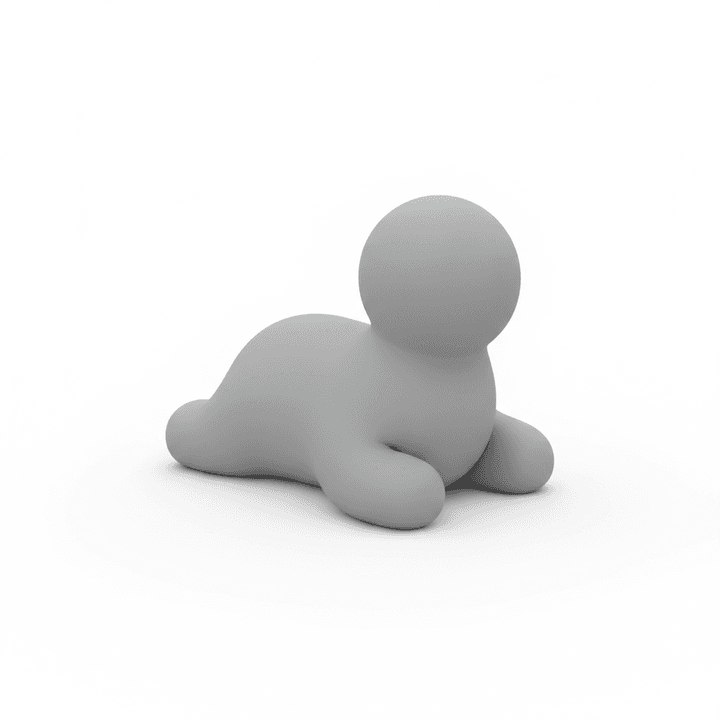
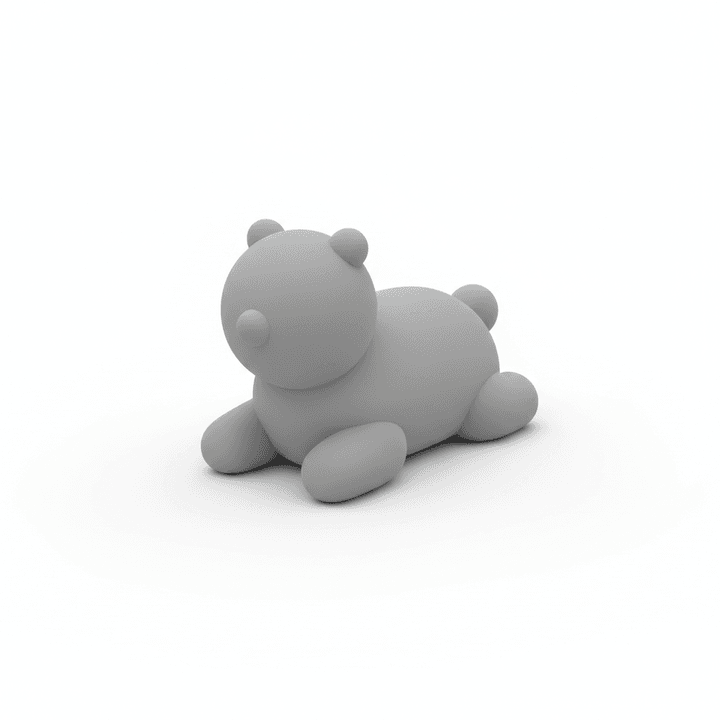
Fix cropped 4-view previews (contain), leave out props that are not worn in the generation prompts, split the flow into clear Step 1 (4-view image, 2 free per day) and Step 2 (3D model, 1 credit, first one free per account), and use four-legged animal shapes for the composition presets

Changed region(s): [[0.2139, 0.275, 0.7944, 0.7639]]

diff --git a/src/components/order/PreviewPanel.tsx b/src/components/order/PreviewPanel.tsx
@@ -752,7 +752,7 @@ export function PreviewPanel({
           {modelState.phase === "idle" && (
             <>
               <Box className="h-10 w-10 text-slate-300" strokeWidth={1.5} />
-              <p className="text-xs text-slate-400">3D形状プレビュー</p>
+              <p className="text-xs text-slate-400">ここに結果が表示されます</p>
             </>
           )}
           {(modelState.phase === "starting" || modelState.phase === "polling") && (
@@ -774,7 +774,7 @@ export function PreviewPanel({
                   key={view}
                   src={`data:${modelState.views[view].mimeType};base64,${modelState.views[view].data}`}
                   alt={VIEW_LABELS[view]}
-                  className="h-full w-full object-cover"
+                  className="h-full w-full bg-white object-contain"
                 />
               ))}
             </div>
@@ -874,8 +874,8 @@ export function PreviewPanel({
             className="w-full rounded-lg bg-slate-800 py-2.5 text-sm font-semibold text-white transition-colors hover:bg-slate-700 disabled:cursor-not-allowed disabled:opacity-50"
           >
             {modelState.phase === "success" || modelState.phase === "error"
-              ? "写真からもう一度、形状を作り直す（無料）"
-              : "写真から3D形状を作る（無料）"}
+              ? "ステップ1をやり直す：4方向のイメージを作り直す"
+              : "ステップ1：写真から4方向のイメージを作る（1日2回まで無料）"}
           </button>
         ) : (
           <button
@@ -883,7 +883,7 @@ export function PreviewPanel({
             onClick={() => signInWithGoogle()}
             className="w-full rounded-lg bg-slate-800 py-2.5 text-sm font-semibold text-white transition-colors hover:bg-slate-700"
           >
-            ログインして3D形状を作る
+            ログインして、ステップ1（4方向のイメージ作り）を始める
           </button>
         ))}
 
@@ -900,7 +900,7 @@ export function PreviewPanel({
                   <img
                     src={`data:${modelState.views[view].mimeType};base64,${modelState.views[view].data}`}
                     alt={VIEW_LABELS[view]}
-                    className="h-full w-full object-cover"
+                    className="h-full w-full bg-white object-contain"
                   />
                 </div>
                 <p className="text-center text-[10px] text-slate-500">
@@ -946,7 +946,7 @@ export function PreviewPanel({
               disabled={modelState.confirming}
               className="flex-1 rounded-lg border border-slate-300 bg-white py-2 text-xs font-medium text-slate-700 transition-colors hover:bg-slate-50 disabled:cursor-not-allowed disabled:opacity-50"
             >
-              作り直す（無料）
+              イメージを作り直す
             </button>
             <button
               type="button"
@@ -959,7 +959,7 @@ export function PreviewPanel({
               }
               className="flex-1 rounded-lg bg-slate-800 py-2 text-xs font-semibold text-white transition-colors hover:bg-slate-700 disabled:cursor-not-allowed disabled:opacity-50"
             >
-              {modelState.confirming ? "作成中..." : "この形状でOK・3Dモデルを作成（1クレジット）"}
+              {modelState.confirming ? "作成中..." : "ステップ2：この形でOK → 3Dモデルを作る（1クレジット）"}
             </button>
           </div>
         </div>
@@ -1056,7 +1056,7 @@ export function PreviewPanel({
       )}
       {mode === "ai" && user && modelState.phase === "reviewingViews" && !hasCredits && (
         <p className="text-center text-xs text-amber-600">
-          クレジットが不足しています。3Dモデルの作成には購入が必要です（形状の確認・作り直しは無料です）。
+          クレジットが足りません。3Dモデルを作るには、クレジットの購入が必要です（1回100円。アカウントごとに、最初の1回は無料です）。4方向のイメージ作りは、1日2回まで無料です。
         </p>
       )}
 

diff --git a/src/components/order/DuoBuilder.tsx b/src/components/order/DuoBuilder.tsx
@@ -373,7 +373,7 @@ export function DuoBuilder({ colorQuantities, onGenerated }: DuoBuilderProps) {
           2匹を1つのキーホルダーにします。<b>1匹ずつ別の写真</b>をアップしてください（2匹が一緒に写った写真だと、混ざってしまうことがあります）。
         </p>
         <p className="mt-1">
-          形の確認と作り直しは、1日2回まで無料です。確認してOKを押すと、3Dモデルの作成に1クレジット（2匹分でも1回分）を使います。
+          ステップ1：4方向のイメージ作り（1日2回まで無料）。ステップ2：イメージを確認してOKを押すと、3Dモデル作りに1クレジット（2匹分でも1回分）を使います。クレジットは1回100円で、アカウントごとに最初の1回は無料です。
         </p>
         <p className="mt-1">3匹以上をご希望の方は、メール（natsuki.ko006@gmail.com）でご相談ください。</p>
       </div>
@@ -449,7 +449,7 @@ export function DuoBuilder({ colorQuantities, onGenerated }: DuoBuilderProps) {
         {modelState.phase === "idle" && (
           <p className="text-xs text-slate-400">
             {ready
-              ? "「形状を生成する」を押してください（30秒〜1分ほどかかります）"
+              ? "「ステップ1」のボタンを押してください（30秒〜1分ほどかかります）"
               : `あとは${[
                   photosA.length === 0 && "1匹目の写真",
                   !subjectA.trim() && "1匹目のお名前",
@@ -478,7 +478,7 @@ export function DuoBuilder({ colorQuantities, onGenerated }: DuoBuilderProps) {
                 key={view}
                 src={`data:${modelState.views[view].mimeType};base64,${modelState.views[view].data}`}
                 alt={VIEW_LABELS[view]}
-                className="h-full w-full object-cover"
+                className="h-full w-full bg-white object-contain"
               />
             ))}
           </div>
@@ -522,8 +522,8 @@ export function DuoBuilder({ colorQuantities, onGenerated }: DuoBuilderProps) {
             className="w-full rounded-lg border border-slate-300 bg-white py-2.5 text-sm font-medium text-slate-700 transition-colors hover:bg-slate-50 disabled:cursor-not-allowed disabled:opacity-50"
           >
             {modelState.phase === "success" || modelState.phase === "error"
-              ? "もう一度形状を作り直す"
-              : "形状を生成する"}
+              ? "ステップ1をやり直す：4方向のイメージを作り直す"
+              : "ステップ1：4方向のイメージを作る（1日2回まで無料）"}
           </button>
         ) : (
           <button
@@ -588,12 +588,12 @@ export function DuoBuilder({ colorQuantities, onGenerated }: DuoBuilderProps) {
               }
               className="flex-1 rounded-lg bg-slate-800 py-2 text-xs font-semibold text-white transition-colors hover:bg-slate-700 disabled:cursor-not-allowed disabled:opacity-50"
             >
-              {modelState.confirming ? "作成中..." : "この形状でOK・3Dモデルを作成（1クレジット）"}
+              {modelState.confirming ? "作成中..." : "ステップ2：この形でOK → 3Dモデルを作る（1クレジット）"}
             </button>
           </div>
           {user && !hasCredits && (
             <p className="mt-2 text-center text-xs text-amber-600">
-              クレジットが不足しています。3Dモデルの作成には購入が必要です。
+              クレジットが足りません。3Dモデルを作るには、クレジットの購入が必要です（1回100円。アカウントごとに、最初の1回は無料です）。
             </p>
           )}
         </div>

diff --git a/src/lib/gemini.ts b/src/lib/gemini.ts
@@ -191,6 +191,15 @@ async function generateImage(
   throw new Error(`Gemini did not return an image (${lastReason})`);
 }
 
+// Only what the subject is actually wearing may appear. Props around the subject in the customer's
+// photo (baskets, blankets, mats, furniture, toys, bowls, leashes, people, other animals) would end up
+// fused into the 3D print, so they are explicitly left out.
+const OMIT_SURROUNDINGS_PHRASE =
+  " Draw ONLY the subject itself and anything it is actually wearing (collar, clothing, hat, ribbon, " +
+  "harness). Leave out everything that merely surrounds it in the reference photos: baskets, blankets, " +
+  "mats, cushions, furniture, toys, food, bowls, leashes held by a person, plants, background scenery, " +
+  "and any people or other animals that are not one of the requested subjects. Plain empty white " +
+  "background only.";
 // Shared style anchor for both figureGridPrompt and figureGridPromptDuo -- pins the output to a
 // recognizable, well-represented aesthetic category (gashapon/mascot figurines) instead of just
 // saying "figurine", which on its own wasn't stopping the model from drifting toward a
@@ -293,7 +302,9 @@ function figureGridPrompt(
     `printed at only a few centimeters tall, so keep the sculpted form itself sturdy: ${printSafetyPhrase} ` +
     "Soft even studio lighting with no harsh shadows or reflections. " +
     `${proportionsPhrase}, full body visible and centered within each quadrant, no text ` +
-    "or watermark anywhere (no letters, numbers, captions or labels in any language). Use the attached reference photos to match the subject's shape, " +
+    "or watermark anywhere (no letters, numbers, captions or labels in any language)." +
+    OMIT_SURROUNDINGS_PHRASE +
+    " Use the attached reference photos to match the subject's shape, " +
     "features, coloring, and identity exactly." +
     (wantsSelfStanding ? STABILITY_PHRASE : "") +
     petDetailsPhrase(petDetails, subjectType) +
@@ -398,7 +409,9 @@ function figureGridPromptPoseSet(
     `printed at only a few centimeters tall, so keep the sculpted form itself sturdy: ${printSafetyPhrase} ` +
     "Soft even studio lighting with no harsh shadows or reflections. " +
     `${proportionsPhrase}, full body visible and centered within each cell, no text or watermark ` +
-    "anywhere. Use the attached reference photos to match the subject's shape, features, " +
+    "anywhere." +
+    OMIT_SURROUNDINGS_PHRASE +
+    " Use the attached reference photos to match the subject's shape, features, " +
     "coloring, and identity exactly." +
     petDetailsPhrase(petDetails, subjectType)
   );
@@ -574,6 +587,7 @@ function figureGridPromptDuo(
     "quadrant with generous white margin. Soft even studio light, no harsh shadows. No text, " +
     "letters, numbers or watermark anywhere (no captions or labels in any language). " +
     "Use each subject's own reference photos only for its own identity and coloring." +
+    OMIT_SURROUNDINGS_PHRASE +
     petDetailsPhrase(petDetailsA, subjectType) +
     petDetailsPhrase(petDetailsB, subjectType) +
     (hasComposition

diff --git a/src/app/legal/tokushoho/page.tsx b/src/app/legal/tokushoho/page.tsx
@@ -43,7 +43,7 @@ const ROWS: Row[] = [
   {
     label: "3Dモデル作成クレジット",
     value:
-      `3Dモデルの作成は1回${CREDIT_PRICE_YEN.toLocaleString()}円（税込）で、初回は無料クレジットが付いています。まとめ買いのパックは、${CREDIT_PACKS.map((p) => `${p.credits}回分${p.priceYen.toLocaleString()}円`).join("・")}です（いずれも税込）。形状のプレビューは1日2回まで無料で、それを超える分は1回${PREVIEW_CREDIT_PRICE_YEN.toLocaleString()}円（税込）で追加できます。商品代金が${GENERATION_FEE_REFUND_MIN_SUBTOTAL_YEN.toLocaleString()}円以上のご注文では、使用した3Dモデル作成代（最大${MAX_DISCOUNTABLE_CREDITS}回分）がご注文時に割引されます。【返金】ご購入・ご利用済みのクレジット（3Dモデル作成クレジット、追加プレビュー、割引の残りを含みます）は、お客様都合による返金はできません。3Dモデルの作成に失敗した場合は、使用したクレジットをお返しします。【有効期限】最後にクレジットをご購入・ご利用いただいた日から1年間です。期限を過ぎた残高は失効し、0になります。`,
+      `3Dモデルの作成は1回${CREDIT_PRICE_YEN.toLocaleString()}円（税込）で、初回は無料クレジットが付いています。まとめ買いのパックは、${CREDIT_PACKS.map((p) => `${p.credits}回分${p.priceYen.toLocaleString()}円`).join("・")}です（いずれも税込）。4方向のイメージ作り（ステップ1）は1日2回まで無料で、それを超える分は1回${PREVIEW_CREDIT_PRICE_YEN.toLocaleString()}円（税込）で追加できます。商品代金が${GENERATION_FEE_REFUND_MIN_SUBTOTAL_YEN.toLocaleString()}円以上のご注文では、使用した3Dモデル作成代（最大${MAX_DISCOUNTABLE_CREDITS}回分）がご注文時に割引されます。【返金】ご購入・ご利用済みのクレジット（3Dモデル作成クレジット、追加プレビュー、割引の残りを含みます）は、お客様都合による返金はできません。3Dモデルの作成に失敗した場合は、使用したクレジットをお返しします。【有効期限】最後にクレジットをご購入・ご利用いただいた日から1年間です。期限を過ぎた残高は失効し、0になります。`,
   },
   { label: "お支払い方法", value: "クレジットカード決済・PayPay（Stripe）" },
   { label: "お支払い時期", value: "ご注文時に全額前払いとなります。" },

diff --git a/src/app/guide/faq/page.tsx b/src/app/guide/faq/page.tsx
@@ -36,7 +36,7 @@ const QAS: QA[] = [
   },
   {
     q: "3Dモデルの作成にはいくらかかりますか？",
-    a: "写真から形状のプレビューを作る工程は、1日2回まで無料です（3回目以降は1回50円で追加できます）。3Dモデルの作成は1回100円で、初回は無料クレジットが付いています。クレジットの有効期限は、最後にご購入・ご利用いただいた日から1年間です。商品代金が1,000円以上のご注文では、使った3Dモデル作成代（最大2回分）が、注文時に割引されます。",
+    a: "作る流れは2ステップです。ステップ1は、写真から4方向のイメージを作る工程で、1日2回まで無料です（3回目以降は1回50円で追加できます）。ステップ2の3Dモデル作りは、1回100円です（アカウントごとに最初の1回は無料です）。クレジットの有効期限は、最後にご購入・ご利用いただいた日から1年間です。商品代金が1,000円以上のご注文では、使った3Dモデル作成代（最大2回分）が、注文時に割引されます。",
   },
   {
     q: "キャンセル・返品はできますか？",

diff --git a/src/app/order/page.tsx b/src/app/order/page.tsx
@@ -48,7 +48,7 @@ export default async function OrderPage() {
             ペットや大切なものの写真から、魔法のカラーで輝くクリスタルフィギュアを作成・注文できます。
           </p>
           <p className="mt-2 inline-block rounded-full bg-emerald-50 px-3 py-1 text-xs font-medium text-emerald-700">
-            形状のプレビューは1日2回まで無料です。3Dモデルの作成は1回¥{CREDIT_PRICE_YEN}（初回は無料）で、仕上がりを確認してからご注文いただけます
+            ①写真から4方向のイメージを作る工程は1日2回まで無料、②3Dモデルを作る工程は1回¥{CREDIT_PRICE_YEN}（初回は無料）で、仕上がりを確認してからご注文いただけます
           </p>
         </header>
         {orderingOpen ? (

diff --git a/src/app/page.tsx b/src/app/page.tsx
@@ -266,7 +266,7 @@ export default function Home() {
 
           <div className="mt-10 text-center">
             <p className="mb-2 text-xs text-[#8a7c5e] dark:text-[#6d7c79]">
-              形状のプレビューは1日2回まで無料です。3Dモデルの作成は1回¥{CREDIT_PRICE_YEN}（初回は無料）で、仕上がりを確認してからご注文をご検討いただけます
+              ①写真から4方向のイメージを作る工程は1日2回まで無料、②3Dモデルを作る工程は1回¥{CREDIT_PRICE_YEN}（初回は無料）で、仕上がりを確認してからご注文をご検討いただけます
             </p>
             <Link
               href="/order"

diff --git a/src/app/products/page.tsx b/src/app/products/page.tsx
@@ -193,7 +193,7 @@ export default function ProductsPage() {
 
         <div className="mt-2 text-center">
           <p className="mb-2 text-xs text-[#8a7c5e] dark:text-[#6d7c79]">
-            形状のプレビューは1日2回まで無料です。3Dモデルの作成は1回¥{CREDIT_PRICE_YEN}（初回は無料）で、仕上がりを確認してからご注文をご検討いただけます
+            ①写真から4方向のイメージを作る工程は1日2回まで無料、②3Dモデルを作る工程は1回¥{CREDIT_PRICE_YEN}（初回は無料）で、仕上がりを確認してからご注文をご検討いただけます
           </p>
           <Link
             href="/order"
